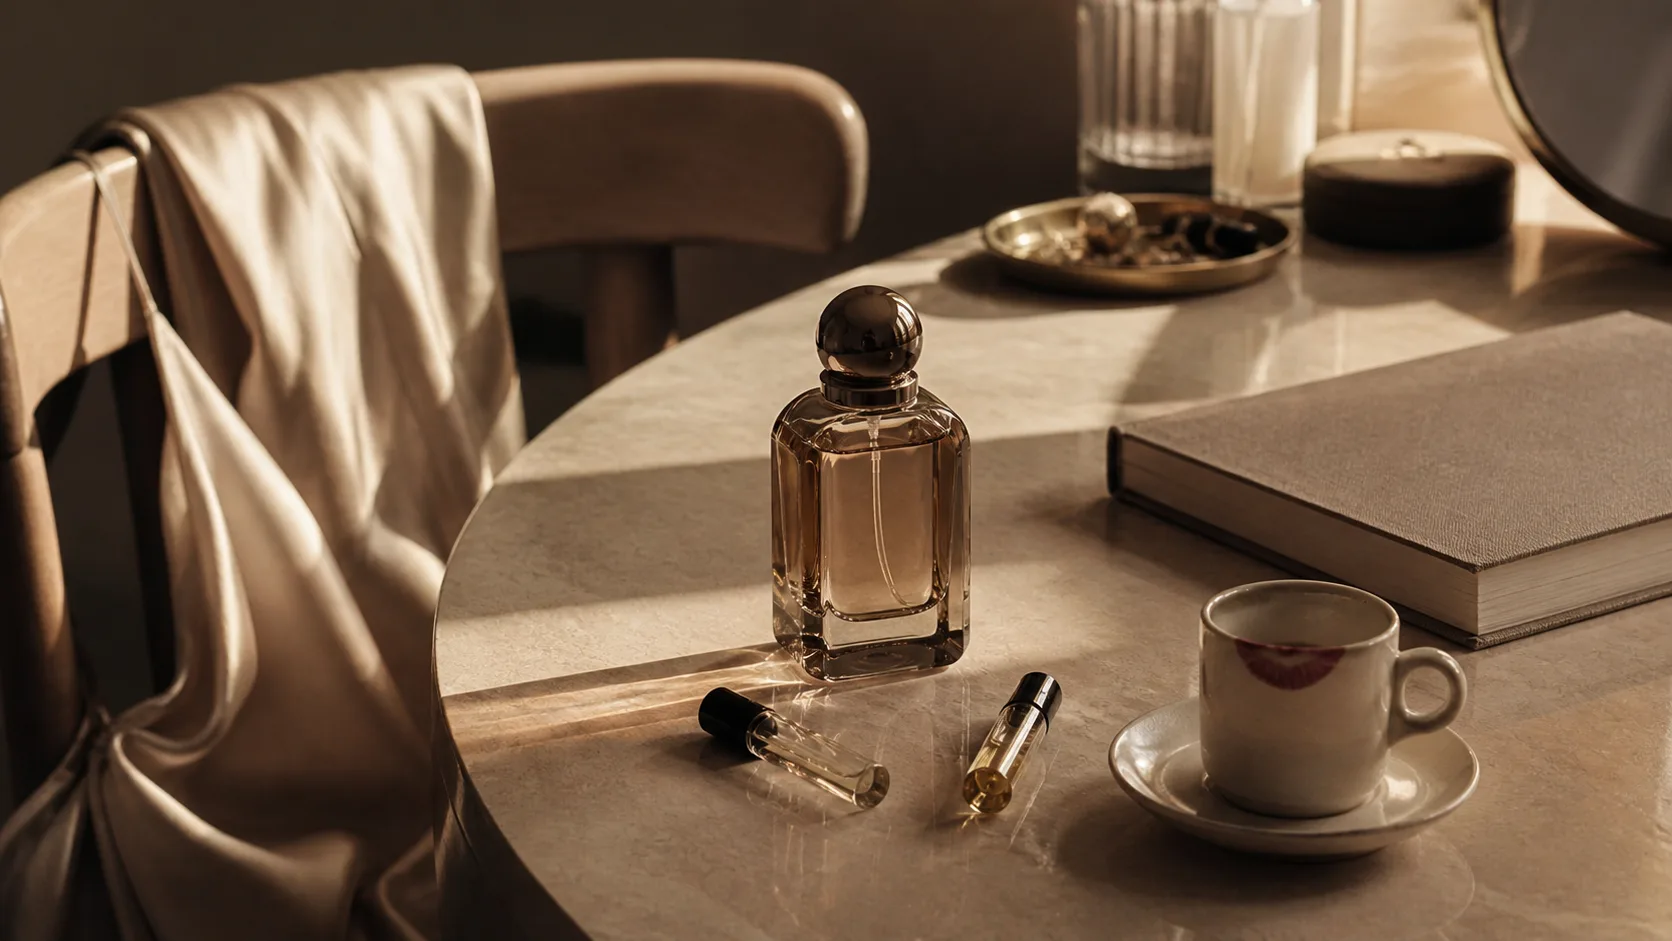
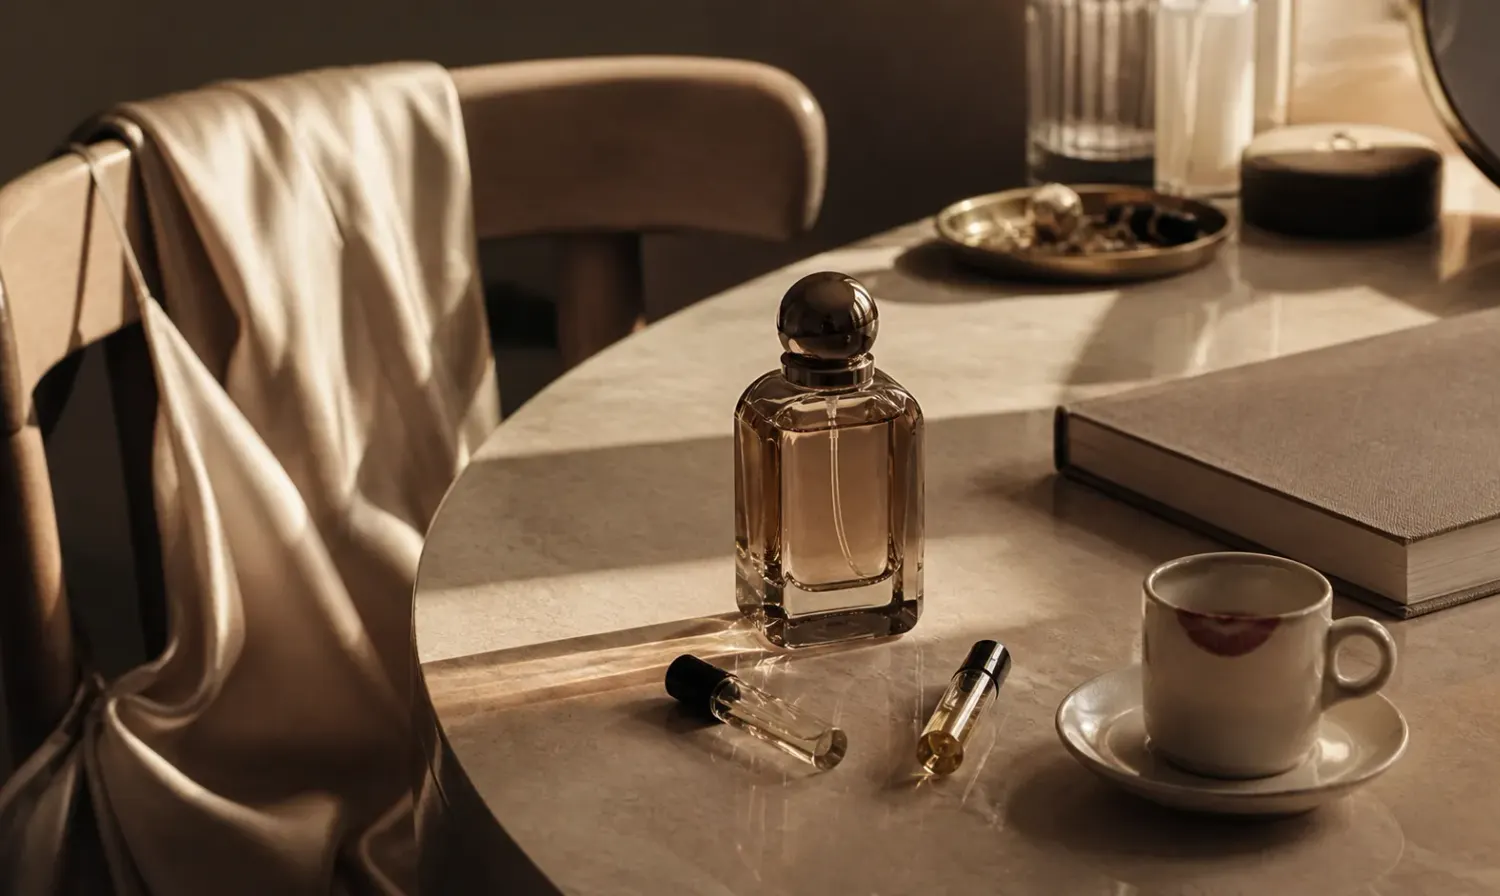
Eliminate remaining 14k-SKU fetches from home page; image polish
Performance:
- BrandWall now uses a new useBrandList() hook that selects only the
  'brand' column from products — no more SKU fetch just to derive brand
  names for the marquee.
- SearchOverlay's product fetch (useSearchableProducts) is gated on
  open=true, so the home page no longer pays its cost on initial paint.
  Selects only id/brand/name/image_url — fields the dropdown actually
  renders.
- Hero image hero-vanity-3.webp resized 1573x941 -> 1500x896 and
  re-encoded at quality 78. Saves ~35 KB on every cold load (it's the
  LCP element — direct hit to Core Web Vitals).
- Logo resized 200x175 -> 110x96 (matches displayed size at 2x retina).
  Saves ~13 KB. width/height attrs updated to match.
- Testimonial photos requested at 80x80 instead of 150x150 (displayed
  at 40x40). Replaced one broken Unsplash URL with a valid stable one.

Accessibility:
- Convert New Arrivals and Reviews section eyebrows from <p> to <h2>
  (styling unchanged) so the document outline goes h1 -> h2 -> h3
  cleanly. Fixes the last 'heading-order' Lighthouse flag.

diff --git a/src/components/ClientReviews.tsx b/src/components/ClientReviews.tsx
@@ -10,42 +10,42 @@ const reviews = [
     name: "Maria Popescu",
     rating: 5,
     comment: "Parfumurile de la Scent Discovery Vault sunt absolut divine! Am comandat discovery set-ul și a fost o experiență incredibilă să încerc atâtea parfumuri de lux. Recomandat cu căldură!",
-    image: "https://images.unsplash.com/photo-1494790108755-2616b9bb3458?auto=format&fit=crop&w=150&h=150&q=75&fm=webp"
+    image: "https://images.unsplash.com/photo-1531123897727-8f129e1688ce?auto=format&fit=crop&w=80&h=80&q=75&fm=webp"
   },
   {
     id: 2,
     name: "Alex Ionescu",
     rating: 5,
     comment: "Calitatea produselor este excepțională. Am găsit parfumul perfect pentru mine prin discovery set-ul lor. Serviciul clienți a fost foarte profesionist.",
-    image: "https://images.unsplash.com/photo-1472099645785-5658abf4ff4e?auto=format&fit=crop&w=150&h=150&q=75&fm=webp"
+    image: "https://images.unsplash.com/photo-1472099645785-5658abf4ff4e?auto=format&fit=crop&w=80&h=80&q=75&fm=webp"
   },
   {
     id: 3,
     name: "Elena Gheorghe",
     rating: 5,
     comment: "Sunt o mare iubitoare de parfumuri și această platformă mi-a deschis o lume nouă. Varietatea brandurilor premium este impresionantă!",
-    image: "https://images.unsplash.com/photo-1438761681033-6461ffad8d80?auto=format&fit=crop&w=150&h=150&q=75&fm=webp"
+    image: "https://images.unsplash.com/photo-1438761681033-6461ffad8d80?auto=format&fit=crop&w=80&h=80&q=75&fm=webp"
   },
   {
     id: 4,
     name: "Cristian Munteanu",
     rating: 5,
     comment: "Discovery set-urile sunt perfecte pentru a explora noi parfumuri fără să te angajezi la o sticlă întreagă. Ambalajul este elegant și livarea rapidă.",
-    image: "https://images.unsplash.com/photo-1507003211169-0a1dd7228f2d?auto=format&fit=crop&w=150&h=150&q=75&fm=webp"
+    image: "https://images.unsplash.com/photo-1507003211169-0a1dd7228f2d?auto=format&fit=crop&w=80&h=80&q=75&fm=webp"
   },
   {
     id: 5,
     name: "Andreea Diaconu",
     rating: 5,
     comment: "Recomand cu încredere! Am descoperit parfumul meu de semnătură prin discovery set-ul lor. Experiența de shopping online a fost fluidă și plăcută.",
-    image: "https://images.unsplash.com/photo-1500648767791-00dcc994a43e?auto=format&fit=crop&w=150&h=150&q=75&fm=webp"
+    image: "https://images.unsplash.com/photo-1500648767791-00dcc994a43e?auto=format&fit=crop&w=80&h=80&q=75&fm=webp"
   },
   {
     id: 6,
     name: "Bogdan Stoica",
     rating: 5,
     comment: "Parfumurile sunt autentice și de calitate superioară. M-am îndrăgostit de mai multe branduri pe care nu le cunoșteam anterior. Mulțumesc pentru această experiență!",
-    image: "https://images.unsplash.com/photo-1519085360753-af0119f7cbe7?auto=format&fit=crop&w=150&h=150&q=75&fm=webp"
+    image: "https://images.unsplash.com/photo-1519085360753-af0119f7cbe7?auto=format&fit=crop&w=80&h=80&q=75&fm=webp"
   }
 ];
 

diff --git a/src/hooks/useProducts.ts b/src/hooks/useProducts.ts
@@ -57,6 +57,65 @@ export const useNewestProducts = (limit = 8) => {
   });
 };
 
+/**
+ * Returns the list of distinct brand names from the products table. ~300 short
+ * strings — much lighter than fetching the full products row to derive brand
+ * names client-side. Used by the homepage BrandWall marquee.
+ */
+export const useBrandList = () => {
+  return useQuery({
+    queryKey: ['products', 'brands'],
+    queryFn: async () => {
+      const pageSize = 1000;
+      const all: { brand: string }[] = [];
+      let from = 0;
+      while (true) {
+        const { data, error } = await supabase
+          .from('products')
+          .select('brand')
+          .range(from, from + pageSize - 1);
+        if (error) throw error;
+        if (!data || data.length === 0) break;
+        all.push(...data);
+        if (data.length < pageSize) break;
+        from += pageSize;
+      }
+      return Array.from(new Set(all.map((p) => p.brand))).filter(Boolean);
+    },
+    staleTime: 10 * 60 * 1000,
+  });
+};
+
+/**
+ * Lightweight products fetch for the search overlay. Returns only fields used
+ * by the search-result dropdown; runs only when `enabled` is true so the home
+ * page doesn't pay the cost on initial paint.
+ */
+export const useSearchableProducts = (enabled: boolean) => {
+  return useQuery({
+    queryKey: ['products', 'searchable'],
+    queryFn: async () => {
+      const pageSize = 1000;
+      const all: Array<Pick<Product, 'id' | 'brand' | 'name' | 'image_url'>> = [];
+      let from = 0;
+      while (true) {
+        const { data, error } = await supabase
+          .from('products')
+          .select('id, brand, name, image_url')
+          .range(from, from + pageSize - 1);
+        if (error) throw error;
+        if (!data || data.length === 0) break;
+        all.push(...(data as Array<Pick<Product, 'id' | 'brand' | 'name' | 'image_url'>>));
+        if (data.length < pageSize) break;
+        from += pageSize;
+      }
+      return all;
+    },
+    enabled,
+    staleTime: 10 * 60 * 1000,
+  });
+};
+
 export const useProduct = (id: string) => {
   return useQuery({
     queryKey: ['product', id],

diff --git a/src/pages/Index.tsx b/src/pages/Index.tsx
@@ -43,9 +43,9 @@ const Index = () => {
         {newArrivals.length > 0 && (
           <section className="max-w-[1280px] mx-auto px-4 sm:px-6 md:px-8 lg:px-12 xl:px-16 mt-16 md:mt-24 mb-16 md:mb-24">
             <div className="flex items-baseline justify-between mb-8">
-              <p className="text-caption uppercase tracking-[0.06em] text-text-muted">
+              <h2 className="text-caption uppercase tracking-[0.06em] text-text-muted font-normal m-0">
                 {t('newArrivals.title')}
-              </p>
+              </h2>
               <Link
                 to={localizedHref('/shop?sort=newest')}
                 className="text-caption text-text-muted hover:text-text duration-instant ease-default"
@@ -62,9 +62,9 @@ const Index = () => {
 
         {/* Reviews */}
         <section className="max-w-[1280px] mx-auto px-4 sm:px-6 md:px-8 lg:px-12 xl:px-16 mb-16 md:mb-24">
-          <p className="text-caption uppercase tracking-[0.06em] text-text-muted mb-8">
+          <h2 className="text-caption uppercase tracking-[0.06em] text-text-muted font-normal m-0 mb-8">
             {t('reviews.title')}
-          </p>
+          </h2>
           <ClientReviews />
         </section>
       </main>

diff --git a/src/components/BrandWall.tsx b/src/components/BrandWall.tsx
@@ -2,7 +2,7 @@ import { Link } from "react-router-dom";
 import { useTranslation } from "react-i18next";
 import { useMemo } from "react";
 import { useLocalizedHref } from "@/hooks/useLocalizedHref";
-import { usePricedProducts } from "@/hooks/usePricedProducts";
+import { useBrandList } from "@/hooks/useProducts";
 import { brandPath } from "@/utils/slugs";
 
 function shuffle<T>(arr: T[]): T[] {
@@ -17,13 +17,10 @@ function shuffle<T>(arr: T[]): T[] {
 export function BrandWall() {
   const { t } = useTranslation("common");
   const href = useLocalizedHref();
-  const { data: products = [] } = usePricedProducts();
+  const { data: brandNames = [] } = useBrandList();
 
-  // Unique brands from real catalog, shuffled fresh on every mount.
-  const brands = useMemo(() => {
-    const unique = Array.from(new Set(products.map((p) => p.brand))).filter(Boolean);
-    return shuffle(unique);
-  }, [products]);
+  // Shuffled fresh on every mount.
+  const brands = useMemo(() => shuffle(brandNames), [brandNames]);
 
   if (brands.length === 0) return null;
 

diff --git a/src/components/SearchOverlay.tsx b/src/components/SearchOverlay.tsx
@@ -2,7 +2,7 @@ import { useEffect, useRef, useState } from "react";
 import { useNavigate } from "react-router-dom";
 import { Dialog, DialogContent } from "@/components/ui/dialog";
 import { Search, X } from "lucide-react";
-import { usePricedProducts } from "@/hooks/usePricedProducts";
+import { useSearchableProducts } from "@/hooks/useProducts";
 import { useTranslation } from "react-i18next";
 import { useLocalizedHref } from "@/hooks/useLocalizedHref";
 import { productPath } from "@/utils/slugs";
@@ -18,7 +18,9 @@ export function SearchOverlay({ open, onOpenChange }: Props) {
   const inputRef = useRef<HTMLInputElement>(null);
   const navigate = useNavigate();
   const href = useLocalizedHref();
-  const { data: products = [] } = usePricedProducts();
+  // Only fetch when the overlay is opened — avoids the home page paying the
+  // cost on initial paint.
+  const { data: products = [] } = useSearchableProducts(open);
 
   useEffect(() => {
     if (open) {

diff --git a/src/components/Header.tsx b/src/components/Header.tsx
@@ -58,8 +58,8 @@ const Header = () => {
           <img
             src="/logo.png"
             alt="modestshop"
-            width={200}
-            height={175}
+            width={110}
+            height={96}
             className="h-10 md:h-12 w-auto object-contain"
           />
         </Link>
